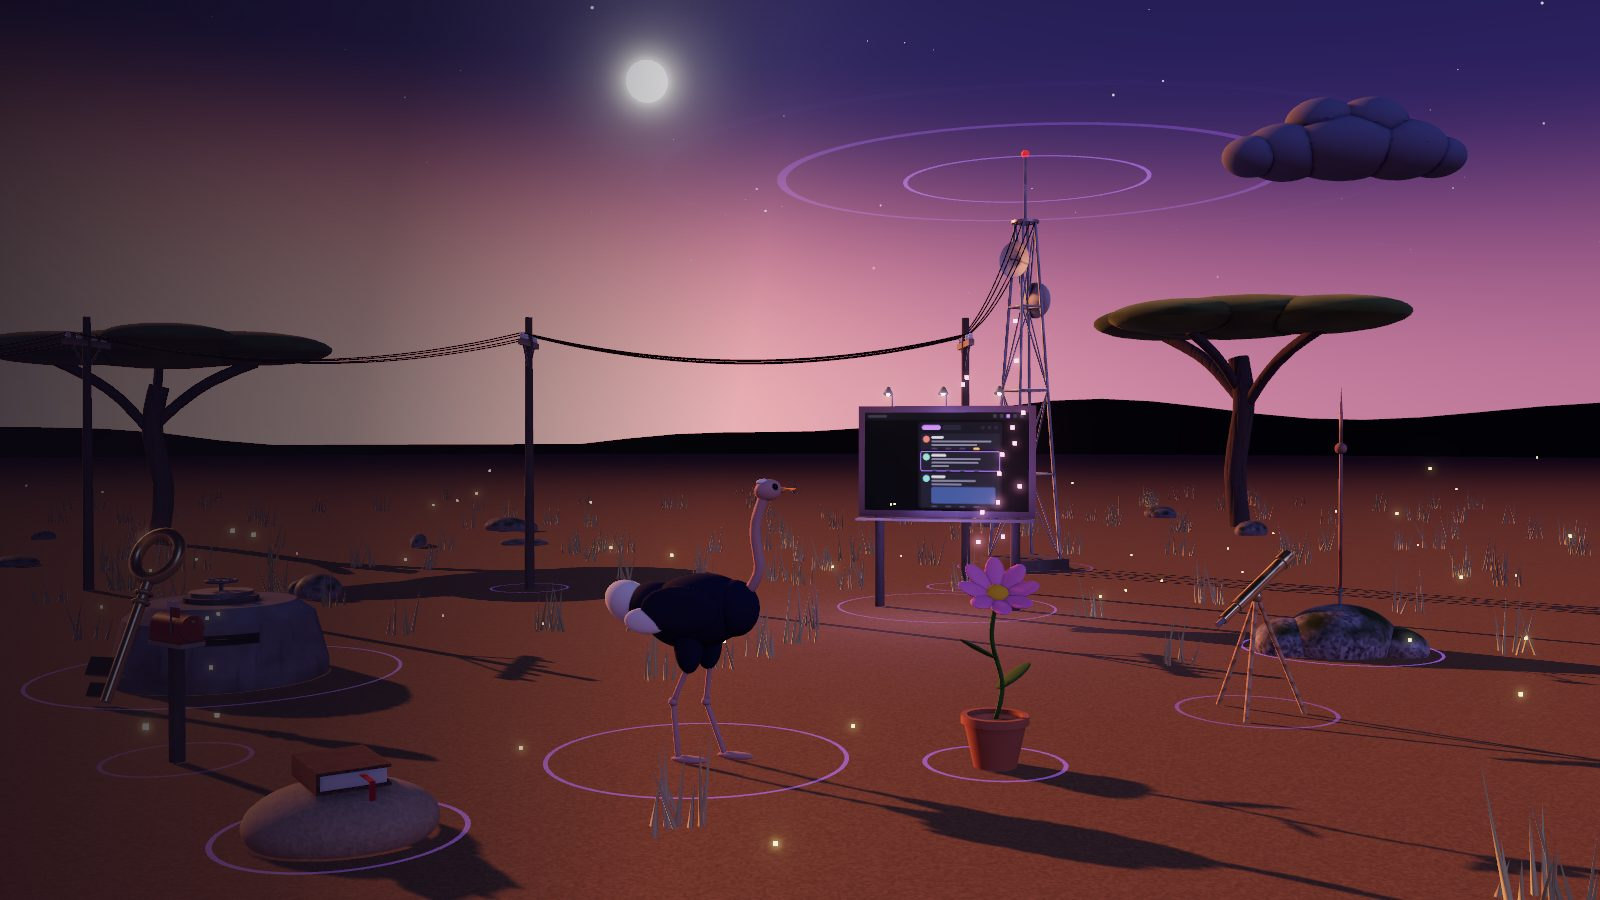
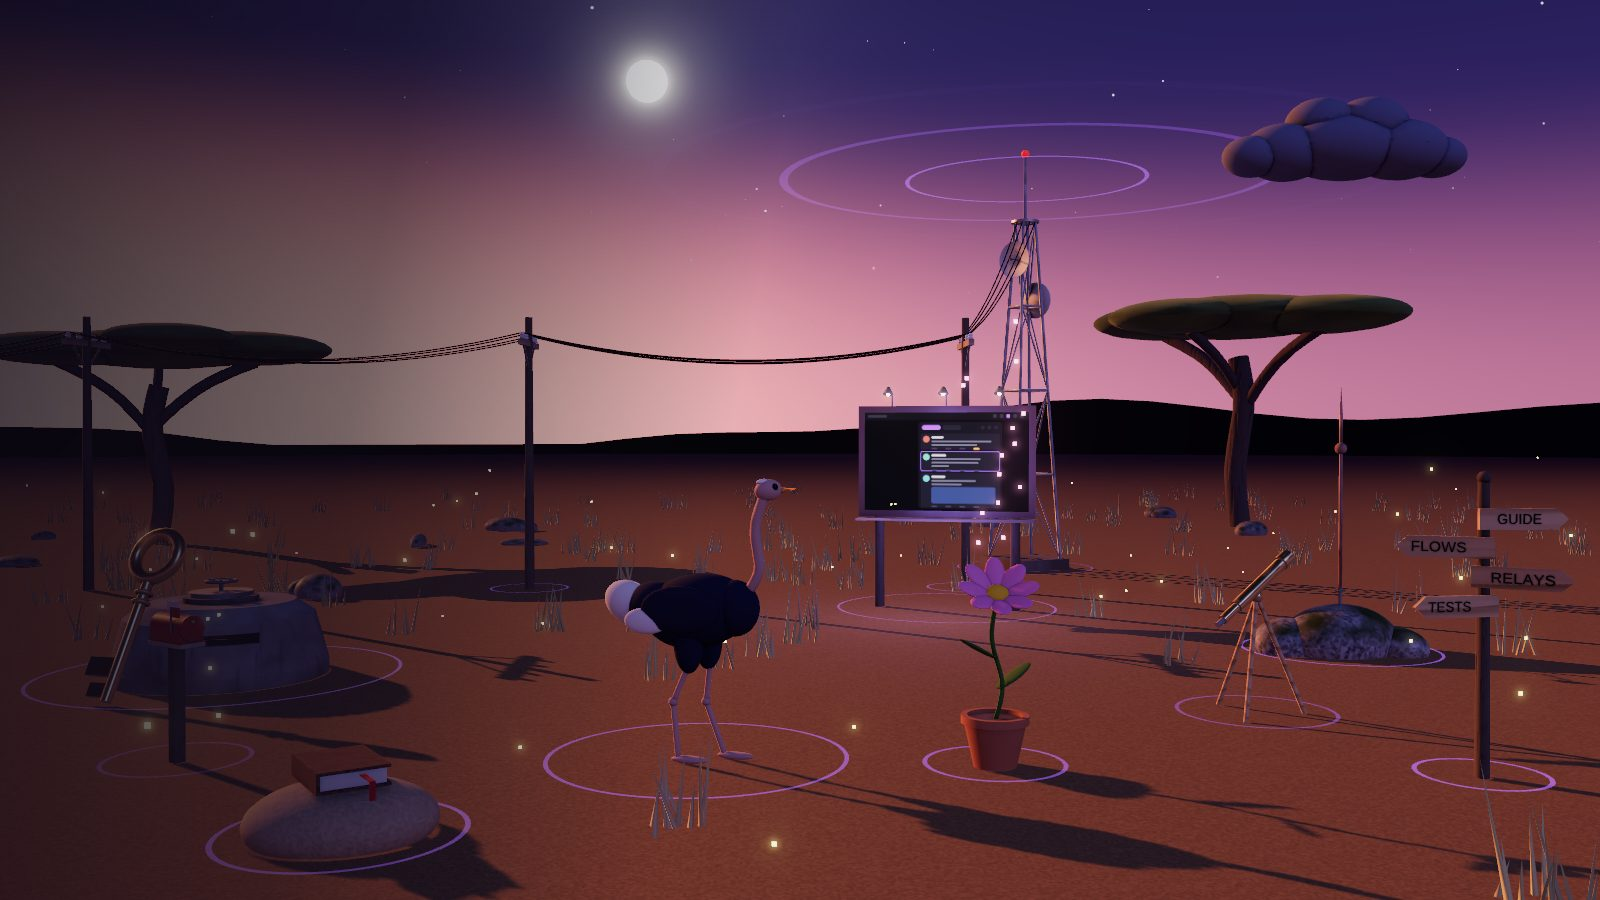
feat(site): the documentation, published with the site and reachable from it
`just site` now builds the documentation (`just doc`) and puts it under
doc/ in the assembled site, so GitHub Pages publishes the guide and the
documentation of every module beside the page, from each push to main
that touches the source.

The page reaches it three ways: a Docs link in the bar along the top, a
Documentation card in "Nostr, piece by piece" with a link to each part
of the guide, and a link in the footer. In the scene it is a signpost,
with a board for the guide, flows, relays and tests, that can be gone
up to like the rest and shows the same card.

The signpost's letters are SolidCraft text standing proud of the
boards, in its built-in font, so the prop comes out the same wherever
it is made.

Changed region(s): [[0.875, 0.5289, 1.0, 0.9022], [0.5625, 0.1867, 0.5938, 0.2178]]

diff --git a/site/index.html b/site/index.html
@@ -26,6 +26,7 @@
       <a href="#features">Features</a>
       <a href="#install">Install</a>
       <a href="#security">Security</a>
+      <a href="doc/">Docs</a>
       <a class="nav-gh" href="https://github.com/glima/avestruz">GitHub</a>
     </nav>
     <div class="modes" role="group" aria-label="How this page is drawn" hidden>
@@ -38,7 +39,7 @@
   <main id="top">
     <section class="hero">
       <div id="stage" class="stage">
-        <img class="still" src="assets/still.jpg" width="1600" height="900" alt="A plain at dusk: an ostrich among the things Nostr is made of — a relay mast, lines on poles, a bunker with a key, a mailbox, a flower, a storm cloud over a lightning rod.">
+        <img class="still" src="assets/still.jpg" width="1600" height="900" alt="A plain at dusk: an ostrich among the things Nostr is made of — a relay mast, lines on poles, a bunker with a key, a mailbox, a flower, a storm cloud over a lightning rod, a signpost.">
         <p id="stage-note" class="stage-note" hidden>The scene could not start here, so this is the plain page.</p>
         <p class="stage-wait" aria-hidden="true">Setting the scene…</p>
         <aside id="tour" class="tour" hidden aria-live="polite">
@@ -75,7 +76,7 @@
     <section id="nostr" class="subjects band">
       <div class="section-head">
         <h2>Nostr, piece by piece</h2>
-        <p>An open protocol with no company in the middle. These are its parts, and what Avestruz does with each.</p>
+        <p>An open protocol with no company in the middle. These are its parts, what Avestruz does with each, and where to read how.</p>
       </div>
       <div class="subject-grid">
         <article class="card subject" data-subject="nostr">
@@ -146,6 +147,13 @@
           <p>Lists are notes too: who you follow, what you keep, which relays you use. Part of a list can be encrypted, so that only you can read it, wherever you sign in.</p>
           <p>Avestruz keeps bookmarks that way, private, and has a page to browse them. Bookmarked notes are also never dropped from its local store.</p>
           <p class="nips"><a href="https://github.com/nostr-protocol/nips/blob/master/51.md">NIP-51</a></p>
+        </article>
+        <article class="card subject" data-subject="docs">
+          <p class="where">The signpost</p>
+          <h3>Documentation</h3>
+          <p>Avestruz says how it works. Its guide tells how the parts go together, what happens in which order, which relay is asked what, which NIPs are spoken, what was decided and why, and how it is tested — with diagrams, and every test by name.</p>
+          <p>It is written in the source, beside the code it is about, and published here from each change along with the documentation of every module.</p>
+          <p class="nips"><a href="doc/cosmic_applet_avestruz/guide/index.html">The guide</a> <a href="doc/cosmic_applet_avestruz/guide/architecture/index.html">Architecture</a> <a href="doc/cosmic_applet_avestruz/guide/flows/index.html">Flows</a> <a href="doc/cosmic_applet_avestruz/guide/relays/index.html">Relays</a> <a href="doc/cosmic_applet_avestruz/guide/protocol/index.html">Protocol</a> <a href="doc/cosmic_applet_avestruz/guide/decisions/index.html">Decisions</a> <a href="doc/cosmic_applet_avestruz/guide/testing/index.html">Testing</a> <a href="doc/">Every module</a></p>
         </article>
       </div>
     </section>
@@ -276,6 +284,7 @@ just build-release &amp;&amp; sudo just install</code></pre><button class="copy"
       <span>Avestruz is free software under the <a href="https://github.com/glima/avestruz/blob/main/LICENSE">MIT licence</a>.</span>
     </div>
     <p>Built with <a href="https://github.com/pop-os/libcosmic">libcosmic</a> and <a href="https://github.com/rust-nostr/nostr">rust-nostr</a>.
+       <a href="doc/">Documentation</a> ·
        <a href="https://github.com/glima/avestruz/issues">Report a bug</a> ·
        <a href="https://github.com/glima/avestruz/blob/main/CONTRIBUTING.md">Contribute</a></p>
     <p class="legal">COSMIC is a trademark of System76. The scene on this page is made from scripts: see <a href="https://github.com/glima/avestruz/tree/main/site/craft">how</a>.</p>

diff --git a/site/scene/world.js b/site/scene/world.js
@@ -27,6 +27,7 @@ const PLACES = {
   blossom: { at: [3.2, 4.9], turn: 0 },
   telescope: { at: [6.6, 2.6], turn: 0.5 },
   rod: { at: [9.4, -1.6], turn: 0.4 },
+  signpost: { at: [7.7, 5.4], turn: -0.2 },
   billboard: { at: [4.2, -6.4], turn: -0.25 },
   tower: { at: [7.0, -13.5], turn: 0.4 },
 };
@@ -52,6 +53,7 @@ const SUBJECTS = {
   panel: { props: ["billboard"], from: [1.5, 2.6, 8.5], look: [0.9, 2.5, 0], ring: 2.0 },
   search: { props: ["telescope"], from: [-1.5, 1.8, 4.6], look: [0.5, 1.1, 0], ring: 0.9 },
   bookmarks: { props: ["book"], from: [1.0, 1.5, 3.2], look: [0.3, 0.5, 0], ring: 1.0 },
+  docs: { props: ["signpost"], from: [-1.4, 2.0, 5.4], look: [0.5, 1.95, 0], ring: 0.6 },
 };
 
 const HOME = { from: new THREE.Vector3(1.0, 3.2, 17.5), look: new THREE.Vector3(1.4, 3.0, 0) };
@@ -366,7 +368,7 @@ export async function start(stage) {
 
   // ── The props ──
   const loader = new GLTFLoader().setMeshoptDecoder(MeshoptDecoder);
-  const names = ["ostrich", "ostrich_head", "tower", "pole", "bunker", "rod", "bolt", "cloud", "blossom", "mailbox", "billboard", "telescope", "book", "acacia", "rock"];
+  const names = ["ostrich", "ostrich_head", "tower", "pole", "bunker", "rod", "bolt", "cloud", "blossom", "mailbox", "billboard", "telescope", "book", "signpost", "acacia", "rock"];
   const [plain, ...loaded] = await Promise.all([
     ground(new THREE.TextureLoader()),
     ...names.map((name) => loader.loadAsync(new URL(`models/${name}.glb`, ASSETS).href)),

diff --git a/site/craft/models.py b/site/craft/models.py
@@ -38,6 +38,7 @@ LOOKS: dict[str, Look] = {
     "paper": Look("#efe9dc", material="paper", size=128),
     "porcelain": Look("#f4f2ec", roughness=0.15, size=128),
     "dish": Look("#e4e2dc", roughness=0.5, dirt=0.5, size=256),
+    "ink": Look("#1a1410", roughness=0.85, size=128),
     # What grows.
     "leaves": Look("#56702e", material="moss", size=512),
     "stem": Look("#4c7a34", roughness=0.7, size=128),
@@ -330,6 +331,27 @@ def acacia() -> Design:
     return d
 
 
+def signpost() -> Design:
+    """Which way to what: the documentation. A post with a board for each
+    part of the guide, pointing every which way."""
+    d = Design()
+    d.cone("post", 70, 2800, top=52, look="trunk")
+    d.sphere("cap", 62, (0, 0, 2810), "trunk")
+    # (what it says, how high its foot is, which way it points, how far it is turned)
+    boards = [("GUIDE", 2330, 1, 12), ("FLOWS", 2060, -1, -14), ("RELAYS", 1790, 1, -24), ("TESTS", 1520, -1, 18)]
+    front = -98
+    for i, (says, z, way, turn) in enumerate(boards):
+        tall, long, tip = 200, 640, 110
+        outline = [(-90 * way, z), (long * way, z), ((long + tip) * way, z + tall / 2), (long * way, z + tall), (-90 * way, z + tall)]
+        d.extrude(f"board_{i}", "facing", outline, -42, offset=front, look="pine")
+        # Something of the letters' look for them to be joined to, out of
+        # sight inside the board.
+        d.box(f"says_{i}", (10, 10, 10), (40 * way, front + 20, z + tall / 2), "ink")
+        d.write(f"says_{i}", says, (70 if way > 0 else -long + 20, z + 55), 92, front)
+        d.move([f"board_{i}", f"says_{i}"], axis=(0, 0, 1), angle=turn, origin=(0, 0, 0))
+    return d
+
+
 def rock() -> Design:
     """A rock, to be strewn about at any size."""
     d = Design()
@@ -342,5 +364,5 @@ def rock() -> Design:
 MODELS = {
     "ostrich": ostrich, "ostrich_head": ostrich_head, "tower": tower, "pole": pole, "bunker": bunker,
     "rod": rod, "bolt": bolt, "cloud": cloud, "blossom": blossom, "mailbox": mailbox,
-    "billboard": billboard, "telescope": telescope, "book": book, "acacia": acacia, "rock": rock,
+    "billboard": billboard, "telescope": telescope, "book": book, "signpost": signpost, "acacia": acacia, "rock": rock,
 }

diff --git a/site/craft/craft.py b/site/craft/craft.py
@@ -87,6 +87,26 @@ class Design:
         self.plane = plane
         return f"Sketch{self.sketches}"
 
+    def facing(self, y: float) -> str:
+        """Start a sketch on the upright plane at `y` that faces whoever
+        looks from -Y: its x is the world's X and its y the world's Z, so
+        that what is written on it reads the right way round from there.
+        Pushed out of it, a positive distance comes towards the looker."""
+        self.run("sketch.create", plane={"origin": [0, y, 0], "x_dir": [1, 0, 0], "y_dir": [0, 0, 1]})
+        self.sketches += 1
+        self.plane = "facing"
+        return f"Sketch{self.sketches}"
+
+    def write(self, body: str, text: str, at: tuple[float, float], height: float, y: float, proud: float = 4) -> None:
+        """Letters standing `proud` of the upright face at `y`, joined to
+        `body`: a body of the look they are to have, which need not touch
+        them. In SolidCraft's built-in font, so that it comes out the same
+        wherever it is made."""
+        self.facing(y)
+        self.run("sketch.text", text=text, at=list(at), height=height)
+        self.run("sketch.finish")
+        self.run("solid.extrude", distance=proud, operation="join", targets=[body], touching="one_body")
+
     def _on_plane(self, points):
         # SolidCraft's XZ sketch has its y along world -Z.
         return [[a, -b] if self.plane == "XZ" else [a, b] for a, b in points]
@@ -101,8 +121,12 @@ class Design:
 
     def extrude(self, name: str, plane: str, outline: list[tuple[float, float]], distance: float, offset: float = 0, look=None, **more) -> str:
         """Push a closed outline out of its plane, from `offset` along the
-        plane's normal: +Z for XY, +X for YZ, +Y for XZ."""
-        self.sketch(plane, offset)
+        plane's normal: +Z for XY, +X for YZ, +Y for XZ, and -Y for
+        `facing` (see [`Design.facing`])."""
+        if plane == "facing":
+            self.facing(offset)
+        else:
+            self.sketch(plane, offset)
         self.run("sketch.line", points=self._on_plane(outline), closed=True)
         self.run("sketch.finish")
         self.run("solid.extrude", distance=distance, body_name=name, **more)
